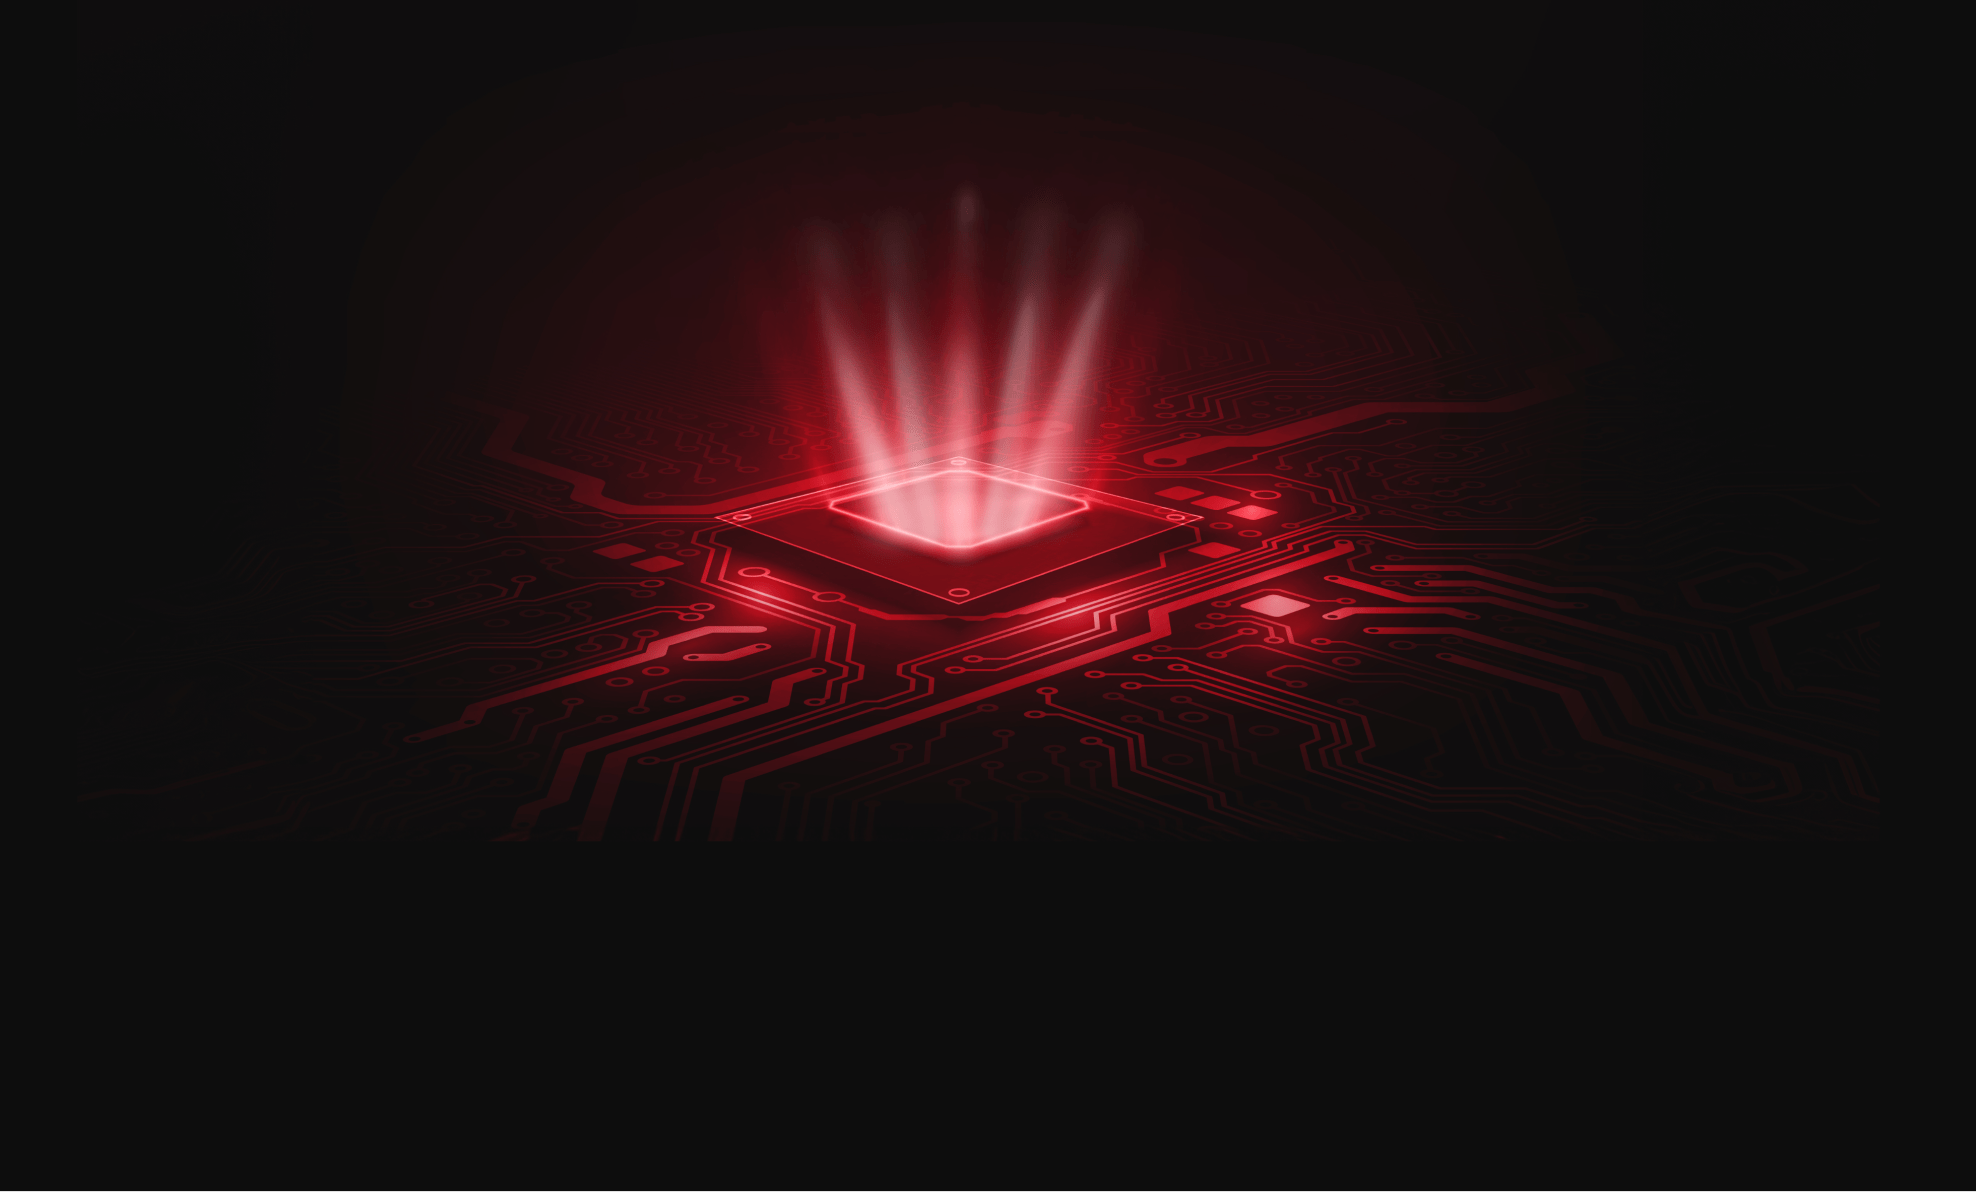
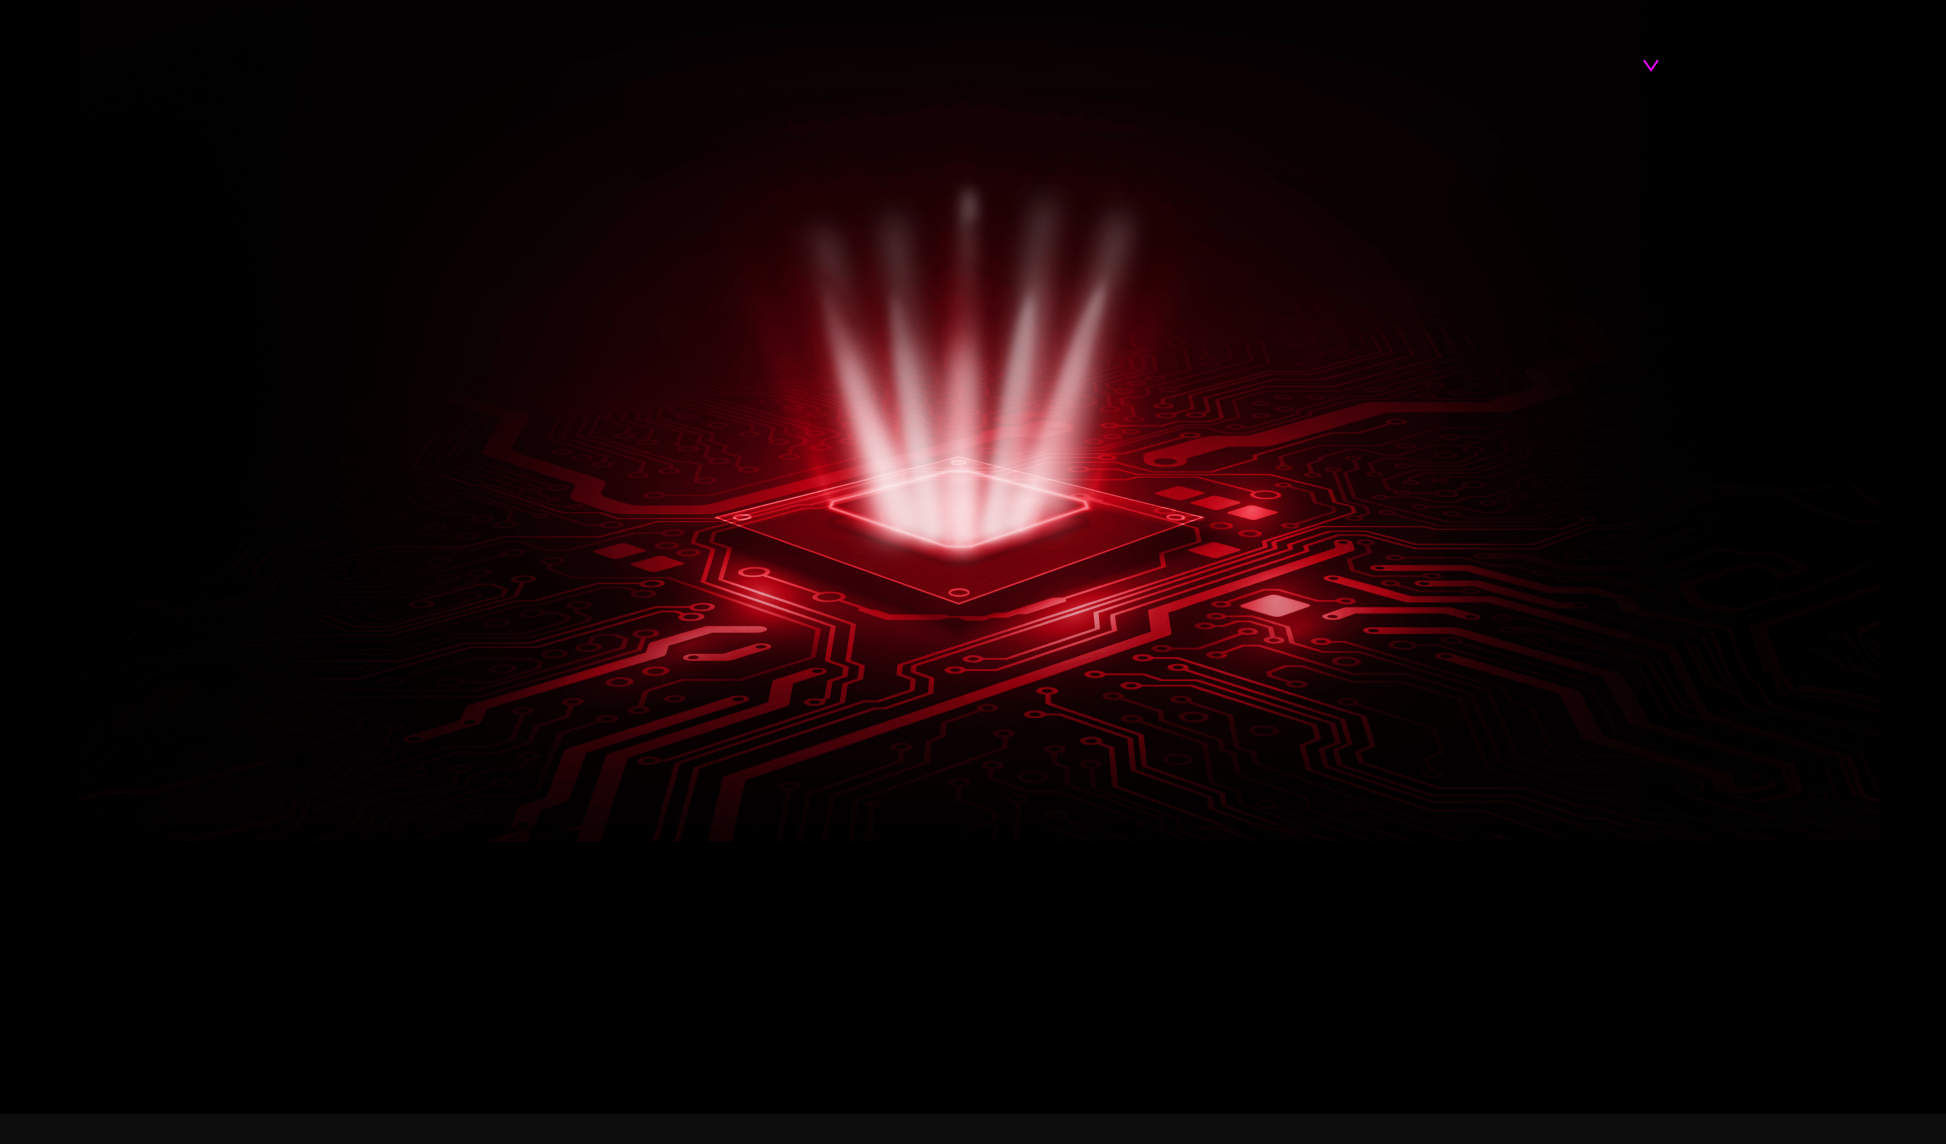
fix hero image

Changed region(s): [[0.2158, 0.153, 0.8325, 0.7037]]

diff --git a/src/pages/Main/styled.jsx b/src/pages/Main/styled.jsx
@@ -26,7 +26,7 @@ export const HeaderWrap = styled.div`
   }
 
   ${mediaMax.l} {
-    background-position: 47% 226px;
+    background-position: center 226px;
   }
 
   /* ${mediaMax.m} {
@@ -34,7 +34,7 @@ export const HeaderWrap = styled.div`
   } */
 
   ${mediaMax.s} {
-    background-position: 47% 270px;
+    background-position: center 270px;
     background-size: 270%;
   }
 `;
